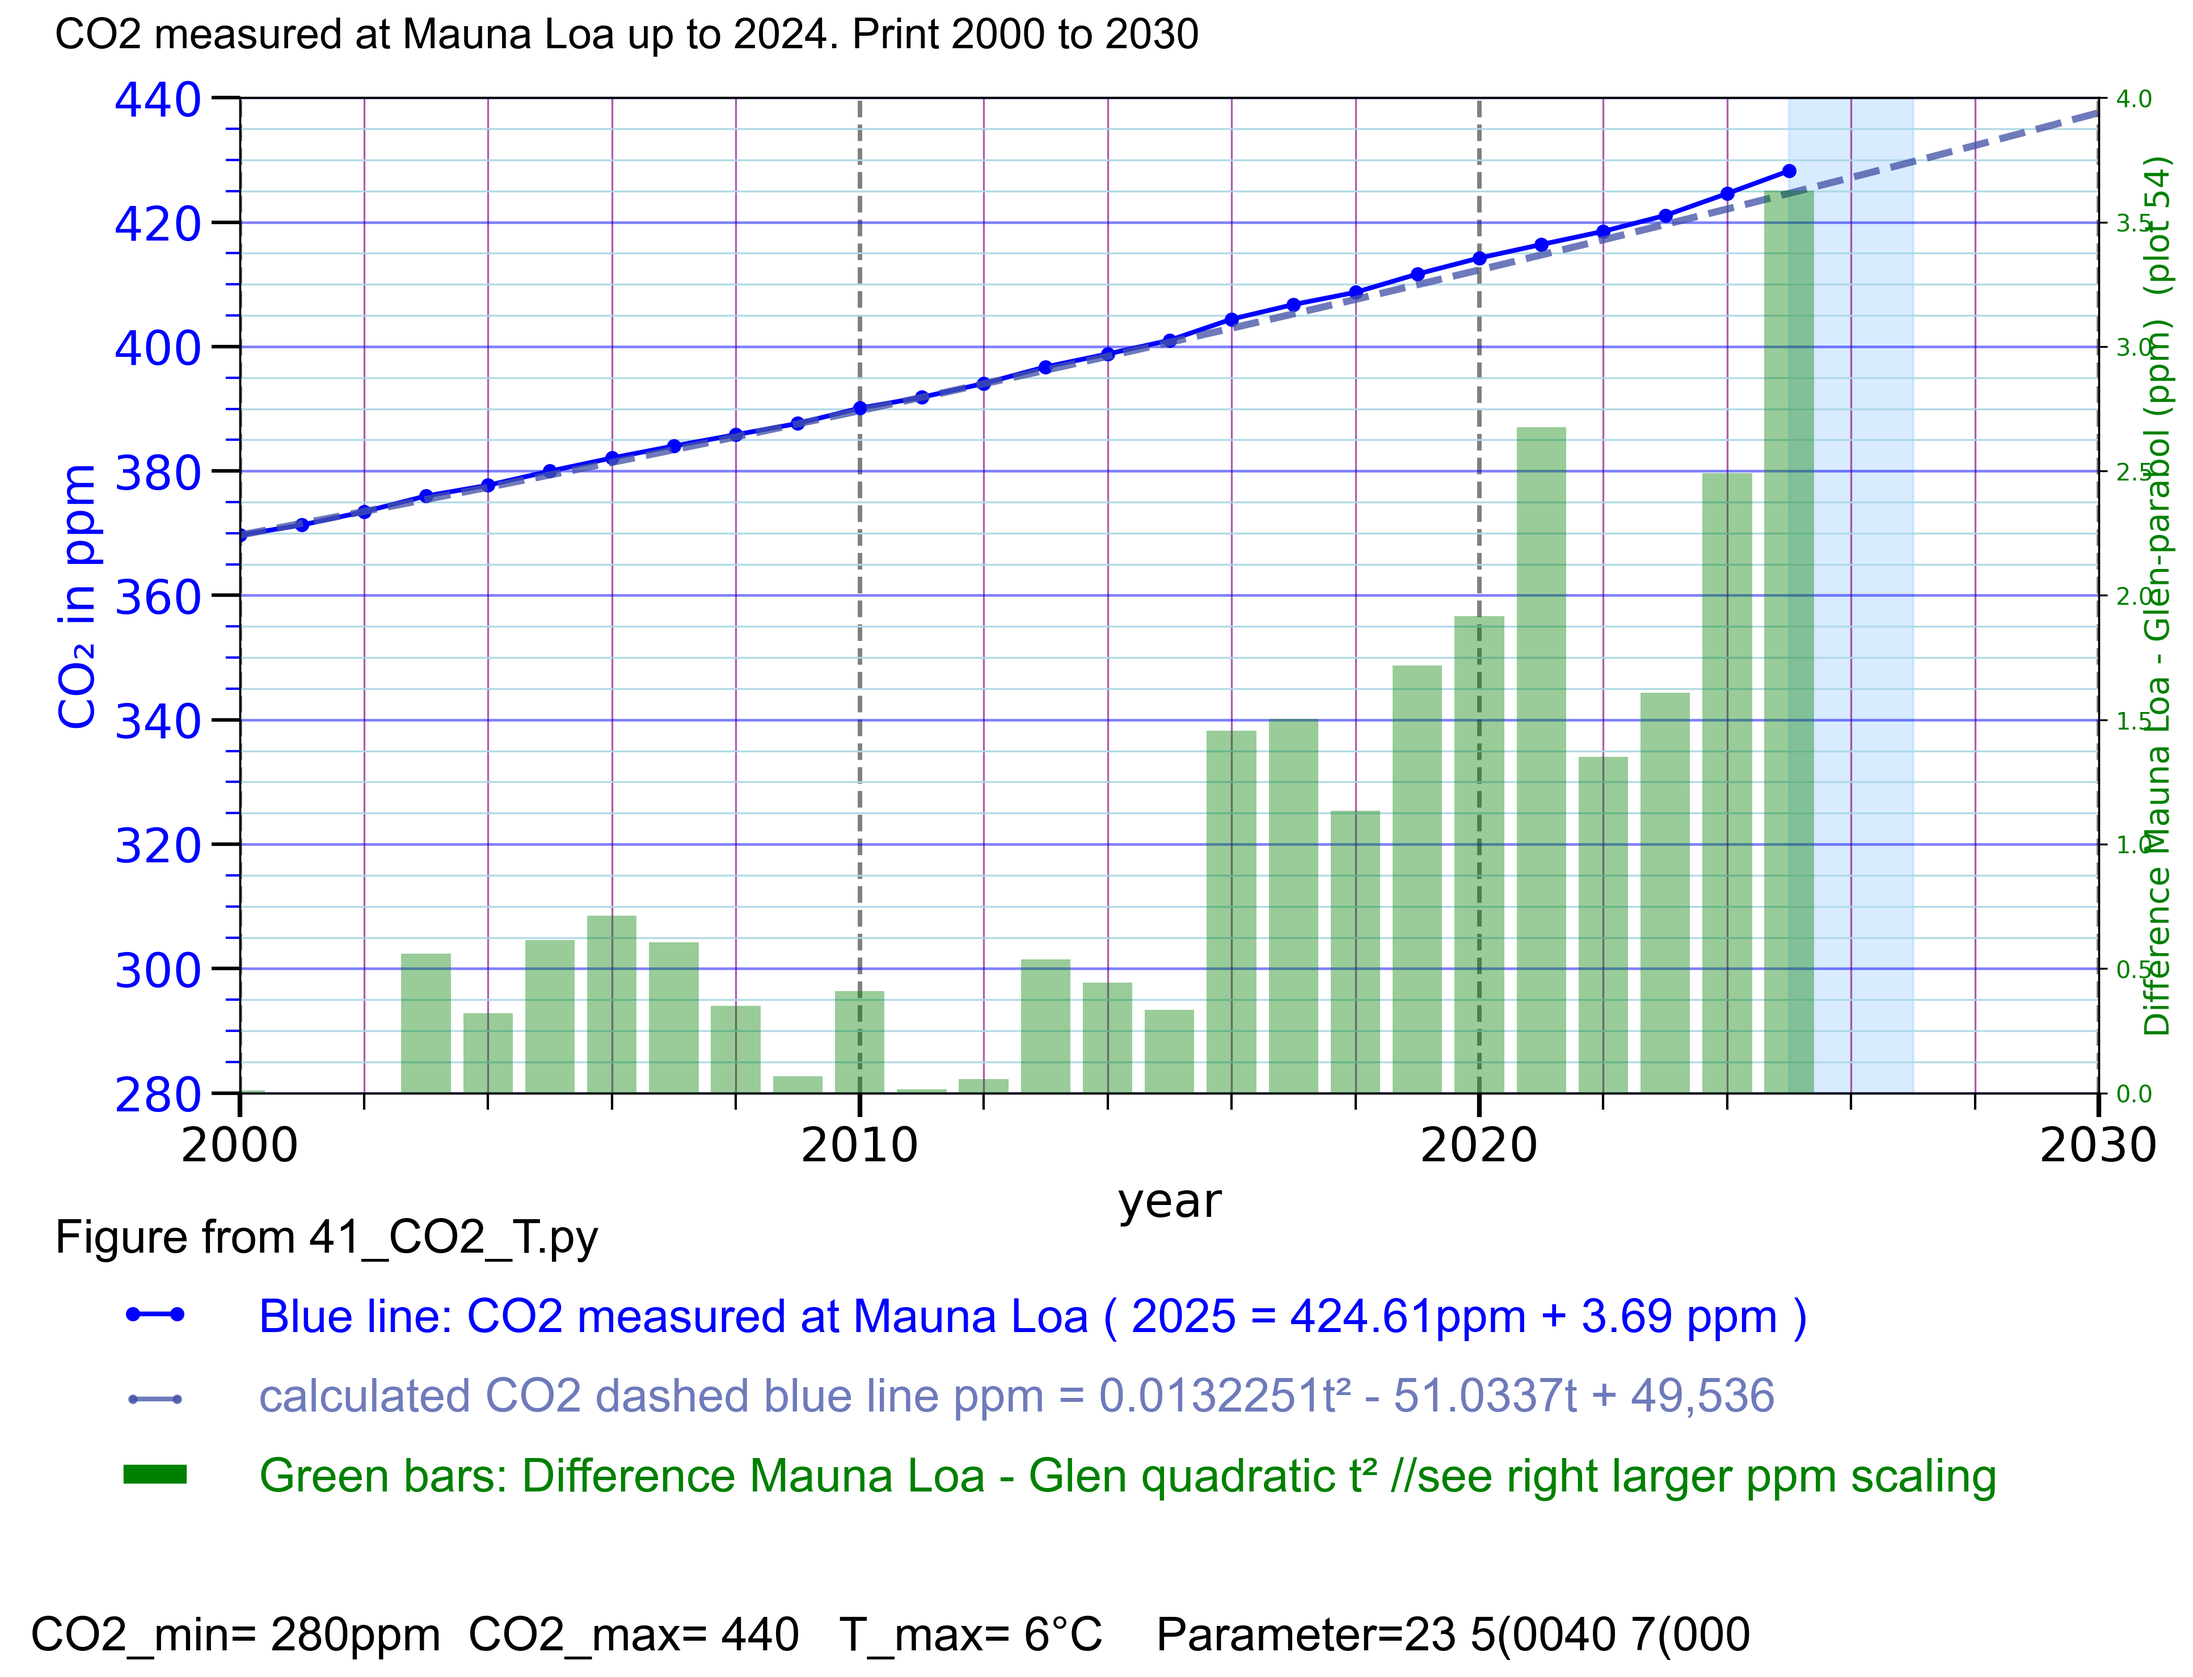
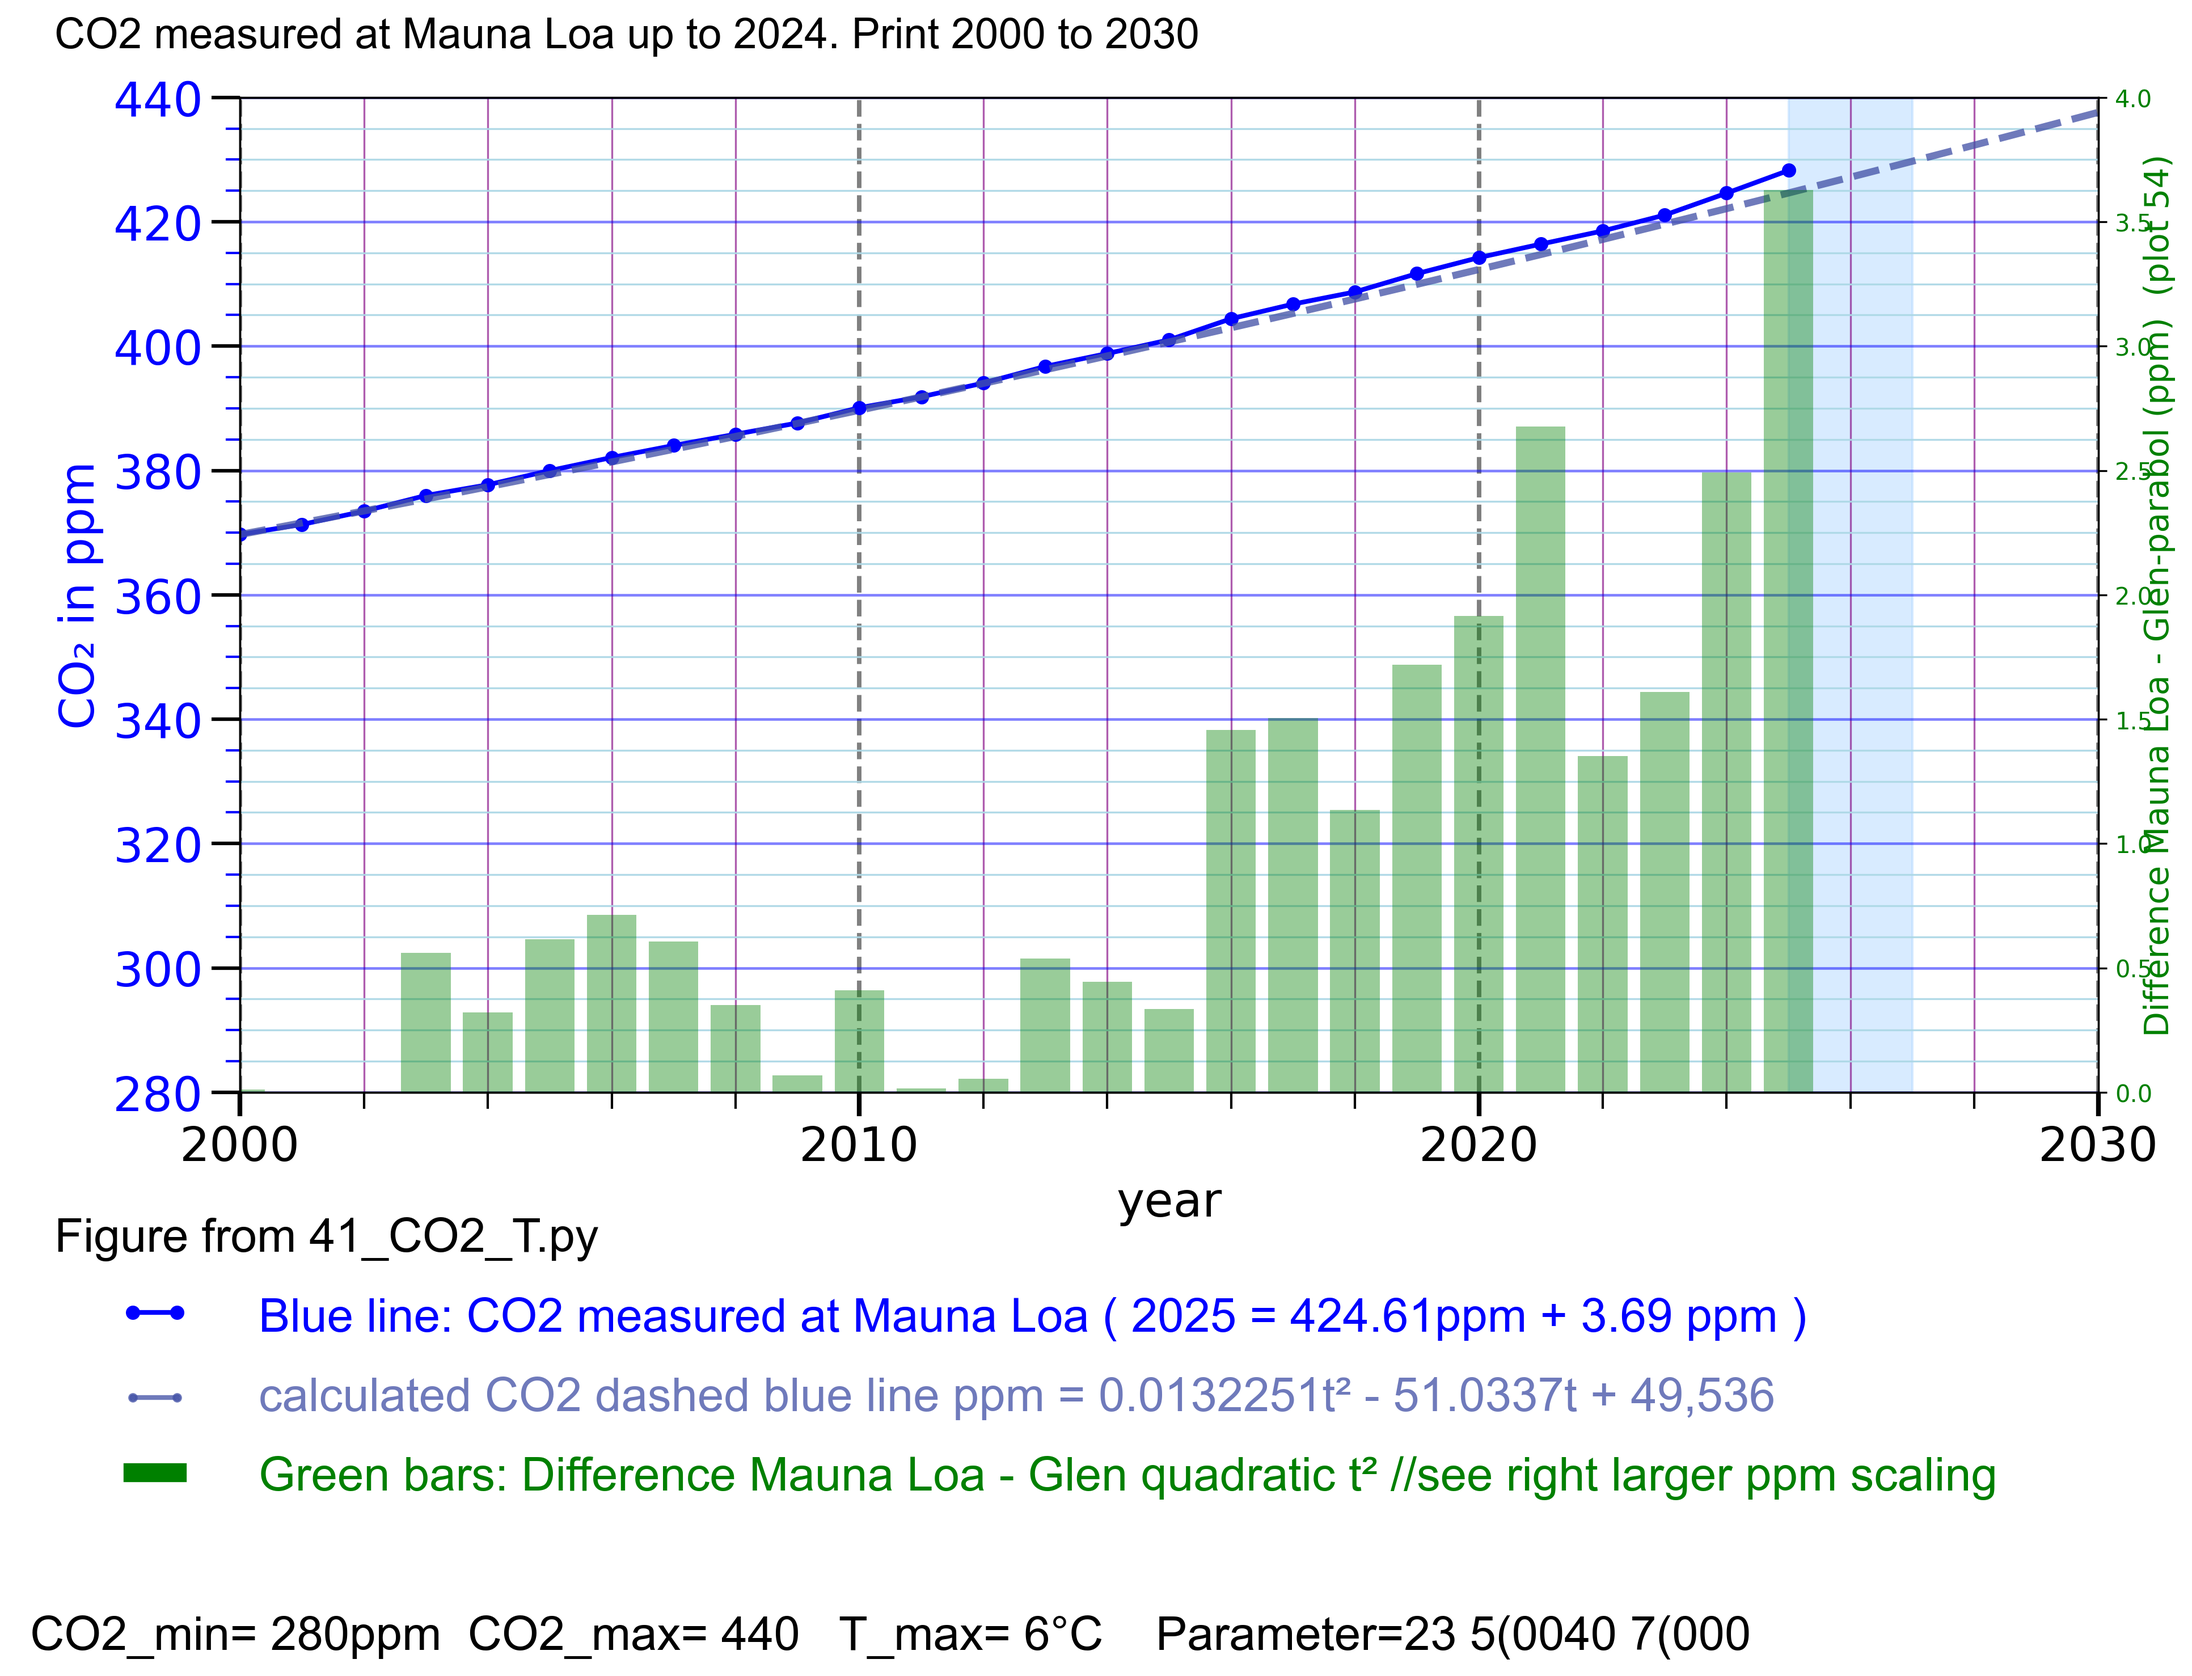
41x1_CO2_T.py 427.35 ppm 2025

Changed region(s): [[0.9625, 0.5604, 0.9935, 0.5915], [0.9625, 0.4047, 0.9935, 0.4359], [0.6831, 0.9651, 0.7141, 0.9963]]

diff --git a/41_CO2_T.py b/41_CO2_T.py
@@ -1,4 +1,4 @@
-# 41w5_CO2_T.py work on 54
+# 41x1_CO2_T.py 427.35 ppm 2025
 # Thomas Boettcher
 # part 1 configure 
 # part 2 plot CO2 Mauna Loa
@@ -157,11 +157,12 @@ co2_values1 = [
 418.53, # 2022
 421.08, # 2023 421.08
 424.61, # 2024
-428.26 # 2025 = 424.61 + 3.69 ppm
+427.35  # 2025 = 427.35  ppm
 ]
 # 2.2 Kurve1 CO₂ Daten https://gml.noaa.gov/webdata/ccgg/trends/co2/co2_annmean_clobal.txt
-# 2.2.2 world data not found
-# https://gml.noaa.gov/ccgg/trends/global.html
+#  https://gml.noaa.gov/webdata/ccgg/trends/co2/co2_annmean_mlo.txt
+# 2.2.2 Mauna_Loa 13.3.2026
+# plot1_CO2_Mauna_Loa https://gml.noaa.gov/ccgg/trends/global.html
 # 2.3 subset skip the old years
 co2_values1_subset = co2_values1[start:end]
 df = pd.DataFrame({
@@ -241,8 +242,8 @@ data53 = {
 2000: 369.71, 2001: 371.32, 2002: 373.45, 2003: 375.98, 2004: 377.70,
 2005: 379.98, 2006: 382.09, 2007: 384.02, 2008: 385.83, 2009: 387.64,
 2010: 390.10, 2011: 391.85, 2012: 394.06, 2013: 396.74, 2014: 398.87,
-2015: 401.01, 2016: 404.41, 2017: 406.76, 2018: 408.72, 2019: 411.66, # 2025 = 424.61 + 3.69 ppm
-2020: 414.24, 2021: 417.41, 2022: 418.52, 2023: 421.24, 2024: 424.61 , 2025: 428.26
+2015: 401.01, 2016: 404.41, 2017: 406.76, 2018: 408.72, 2019: 411.66, # 2025 = 427.35  ppm
+2020: 414.24, 2021: 417.41, 2022: 418.52, 2023: 421.24, 2024: 424.61 , 2025: 427.35 
 }
 years53 = np.array(list(data53.keys()))
 # 5.3.4
@@ -976,6 +977,10 @@ if plot1_CO2_Mauna_Loa > 8:
 
 
 # Datenquellen:
+# 2.2.2 Mauna_Loa 13.3.2026
+# plot1_CO2_Mauna_Loa https://gml.noaa.gov/ccgg/trends/global.html
+
+
 # CO₂: Mauna-Loa/NOAA Jahresmittel (bis 2023), 2024/2025 vorläufig/Schätzung wie zuvor verwendet.
 # https://gml.noaa.gov/webdata/ccgg/trends/co2/co2_annmean_mlo.txt
 # ppm CO2 = 0.0132251t² - 51.0337t + 49,536.7
